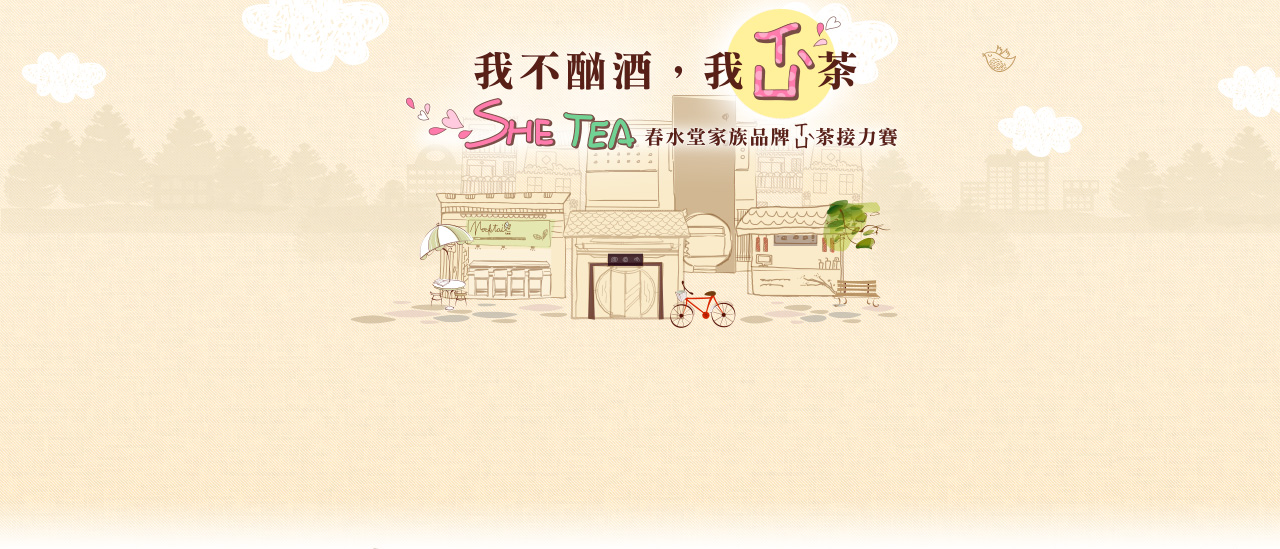
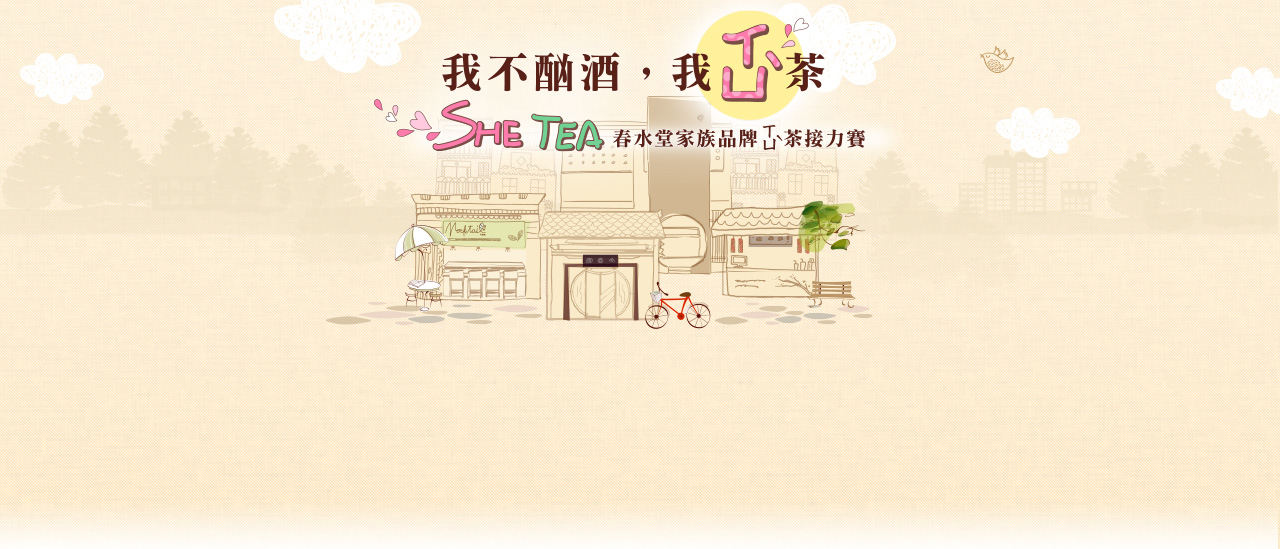
社群移到左邊

Changed region(s): [[0.25, 0.0, 0.7188, 0.6193], [0.1875, 0.0, 0.3438, 0.1548], [0.75, 0.0929, 0.8125, 0.1239]]

diff --git a/public/css/index.css b/public/css/index.css
@@ -11,7 +11,7 @@ a{font:300 16px 微軟正黑體,Microsoft JhengHei;line-height:1.7em;text-decora
 #header{height:650px;background:url(/images/i-01.jpg) 0 0 no-repeat #fff}
 #header ul,#header .girls,#header .girls span,#spotlight,#quick,#header p{position:absolute}
 
-#header ul{overflow:hidden;top:0;right:40px;background:url(/images/u-11.png) 0 0 no-repeat;padding:0 0 0 25px}
+#header ul{overflow:hidden;top:0;left:40px;background:url(/images/u-11.png) 0 0 no-repeat;padding:0 0 0 25px}
 #header li{float:left;width:50px;height:50px;margin:0 0 0 5px}
 #header li a{font-size:12px;color:#555;display:block;width:100%;height:100%;text-align:center;padding:25px 0 0 0;background: url(/images/u-01.png) center 8px no-repeat #fff;}
 #header li a:hover{background:url(/images/u-01.png) center 8px no-repeat #7ECEF4;color:#fff}
